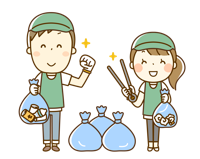
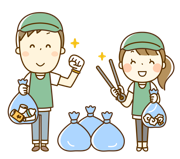
fix: 福祉車両ページを削除

diff --git a/includes/header.html b/includes/header.html
@@ -130,7 +130,6 @@
                   <ul class="mega-links">
                     <li><a href="calendar.html">つどい室予約</a></li>
                     <li><a href="bus.html">マイクロバス貸出</a></li>
-                    <li><a href="welfare-car.html">福祉車両貸出</a></li>
                   </ul>
                 </div>
 
@@ -214,7 +213,6 @@
             <ul class="mobile-sub-list">
               <li><a href="calendar.html">つどい室予約</a></li>
               <li><a href="bus.html">マイクロバス貸出</a></li>
-              <li><a href="welfare-car.html">福祉車両貸出</a></li>
             </ul>
           </li>
         </ul>
